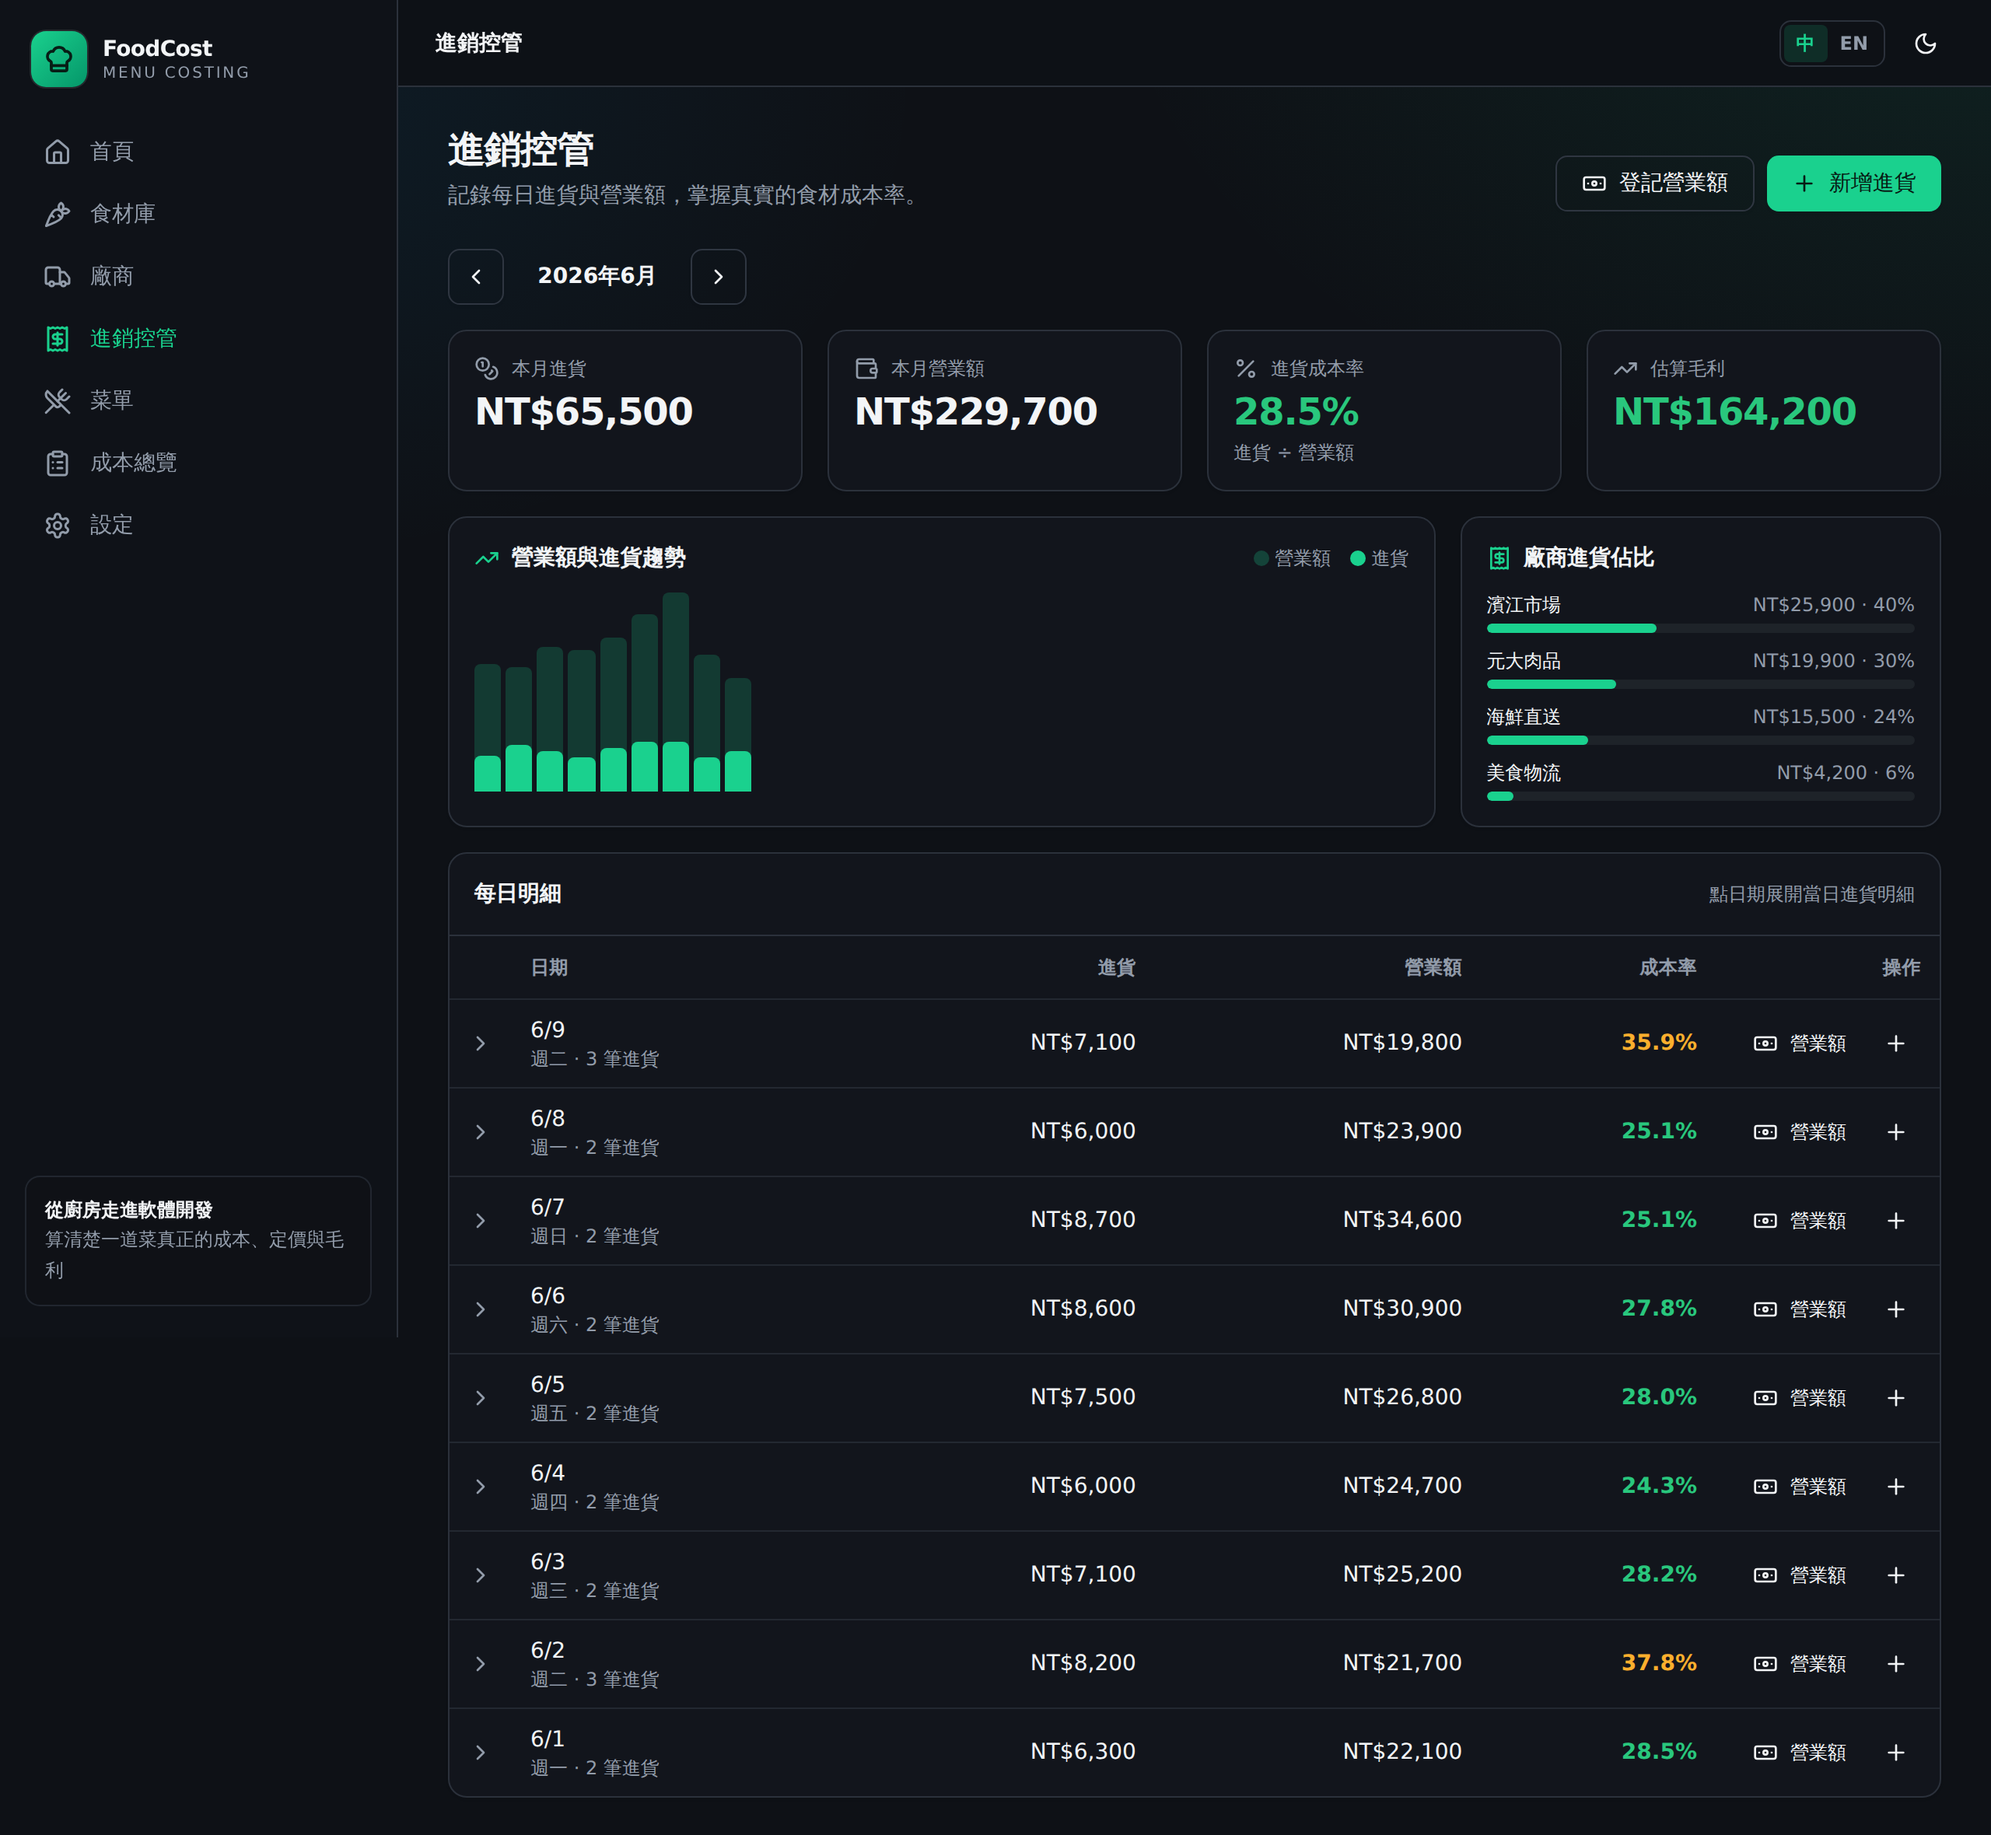
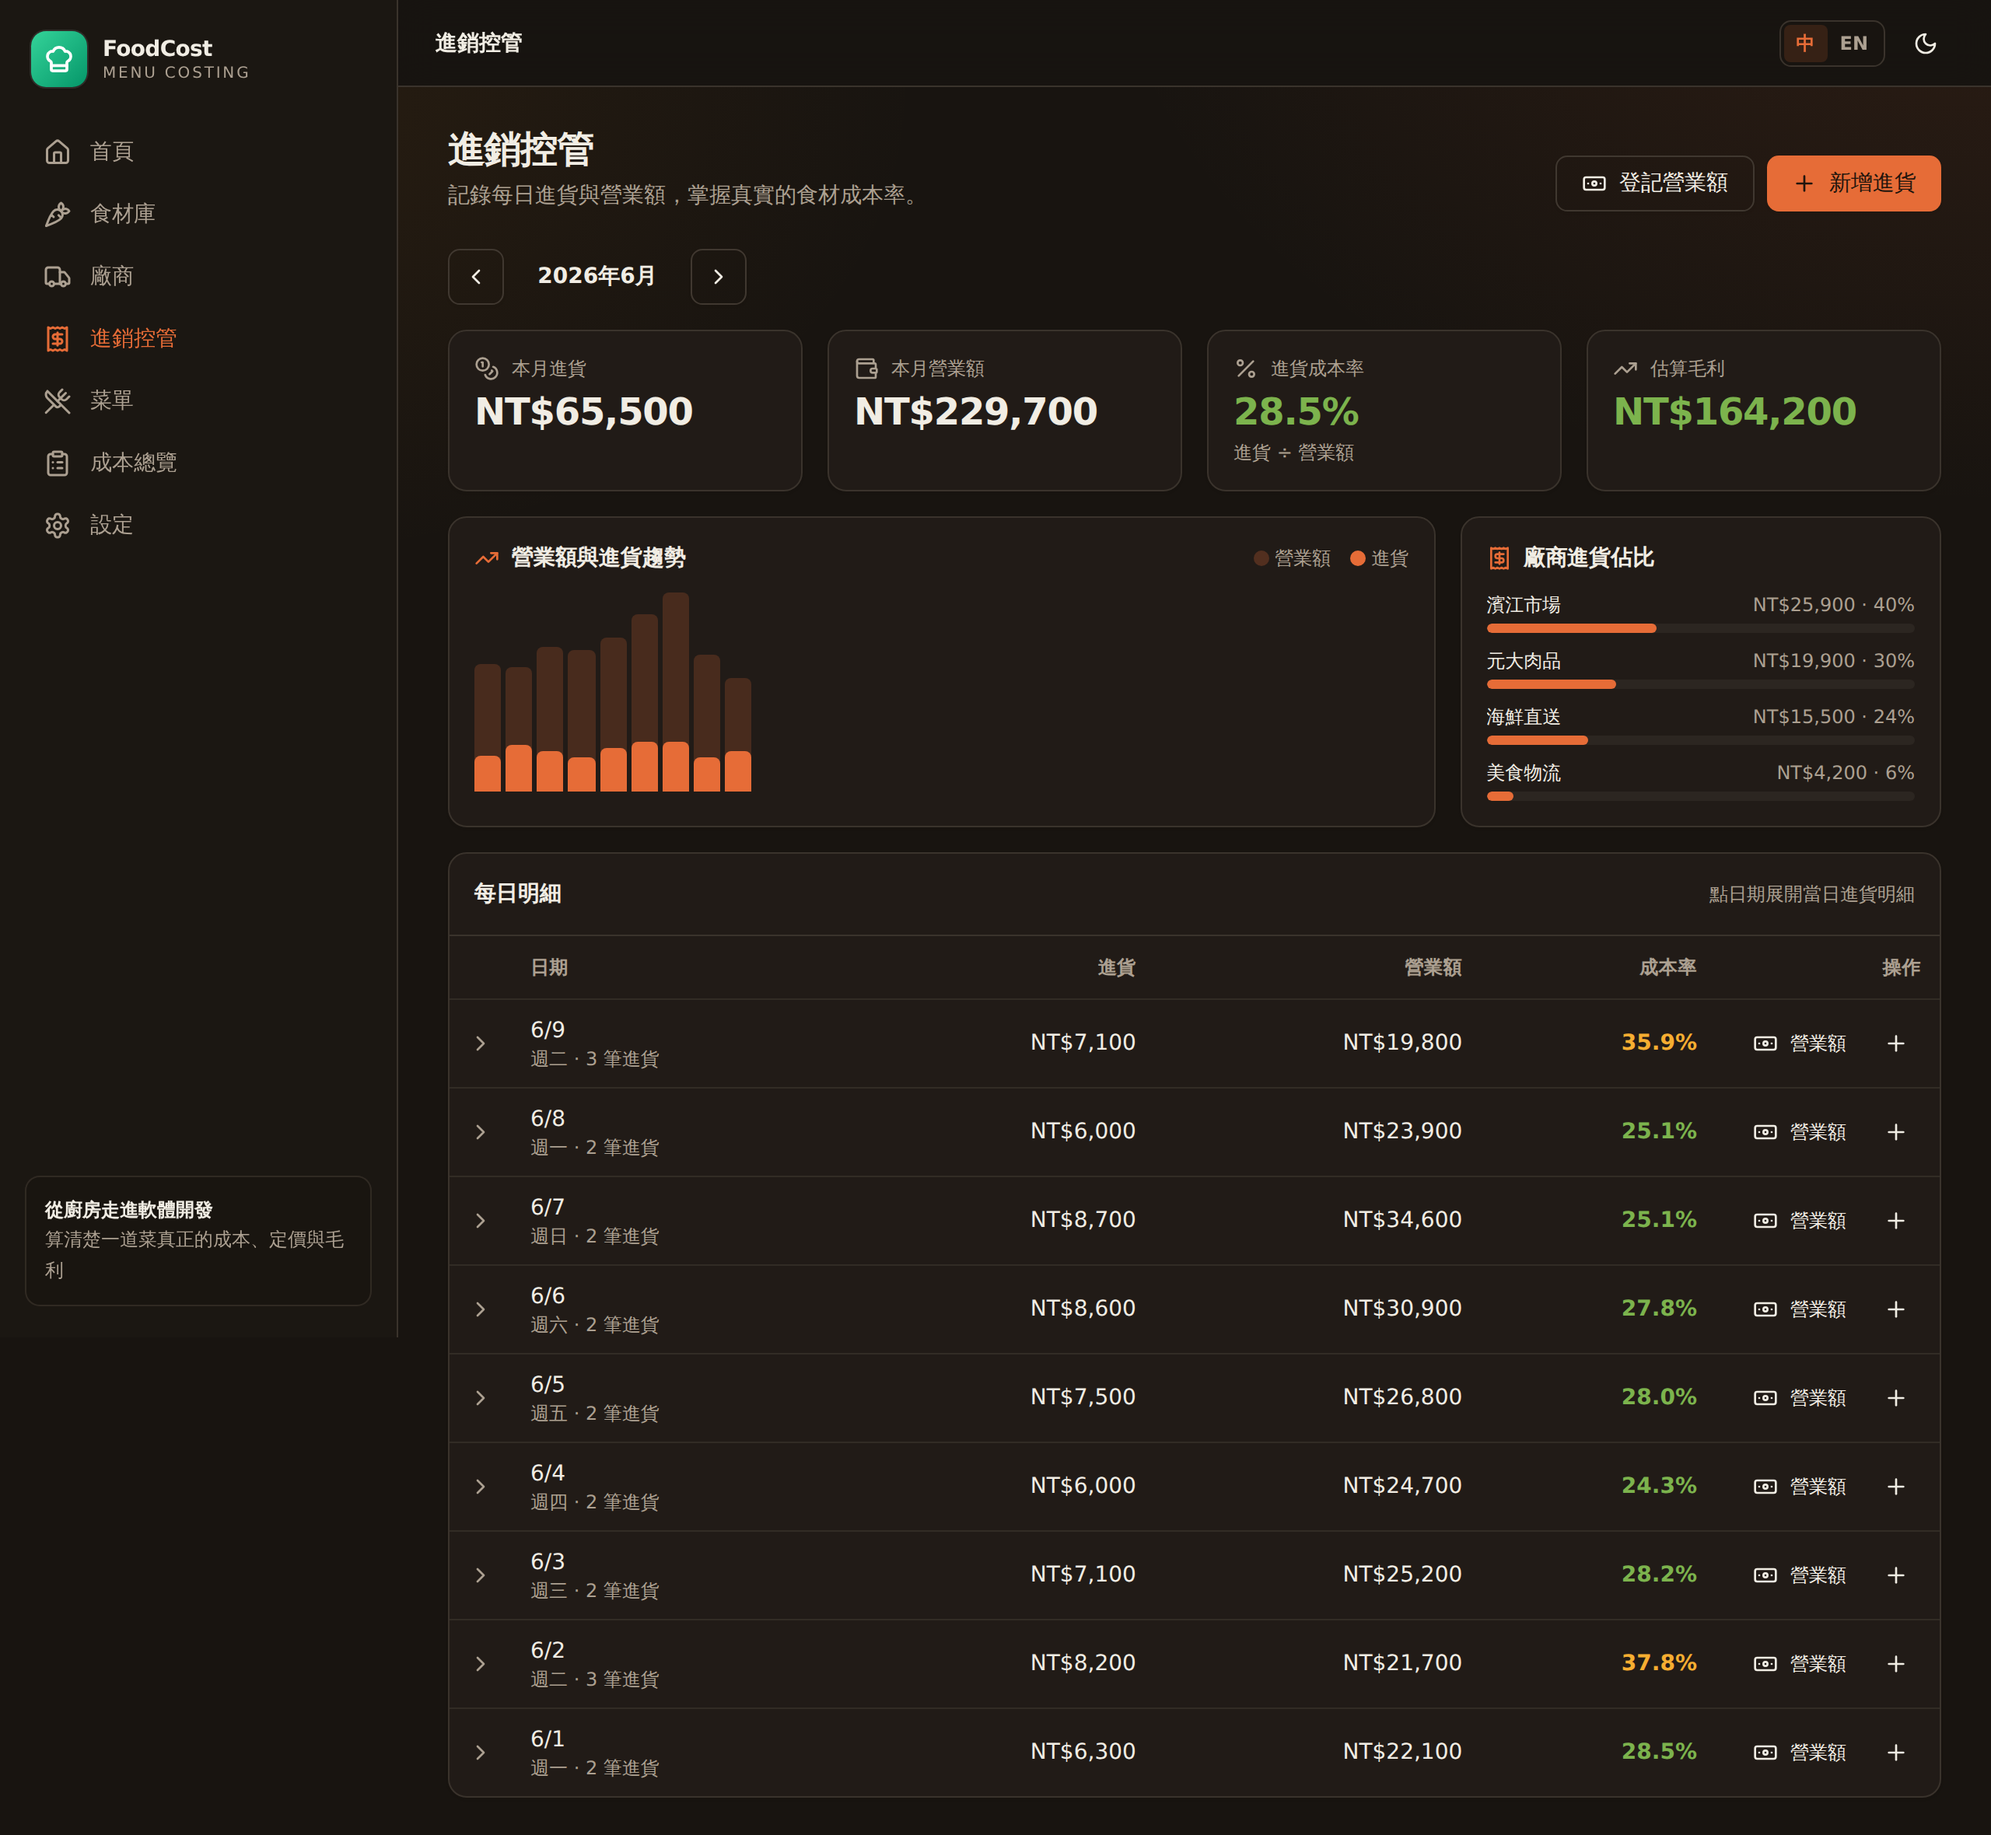
Unify dark theme with the earth-tone palette
Recolour the default dark theme to match the light theme's earth tones:
warm espresso / charcoal-wood backgrounds, terracotta primary, olive
success and ochre warning, with cream text — so both themes share one
cohesive look instead of the previous cool blue-slate dark.

- index.css: rewrite the .dark tokens; warm the ambient-glow accent
- index.html + vite.config.ts: update theme-color / PWA colors to the
  warm dark background
- Refresh dark-theme README screenshots to match

https://claude.ai/code/session_019M1k6HfryFQeN9JrbJLQJn

diff --git a/src/index.css b/src/index.css
@@ -35,32 +35,32 @@
     --radius: 0.6rem;
   }
 
-  /* Dark theme (default) */
+  /* Dark theme (default) — warm earth tones (espresso · terracotta · olive) */
   .dark {
-    --aurora-accent: 199 89% 48%;
-    --background: 220 22% 7%;
-    --foreground: 210 20% 96%;
-    --card: 220 20% 9%;
-    --card-foreground: 210 20% 96%;
-    --popover: 220 24% 8%;
-    --popover-foreground: 210 20% 96%;
-    --primary: 158 78% 46%;
-    --primary-foreground: 160 60% 7%;
-    --secondary: 215 16% 16%;
-    --secondary-foreground: 210 20% 92%;
-    --muted: 216 16% 14%;
-    --muted-foreground: 216 12% 62%;
-    --accent: 215 16% 19%;
-    --accent-foreground: 210 20% 96%;
-    --destructive: 0 72% 55%;
-    --destructive-foreground: 0 0% 98%;
-    --success: 152 66% 47%;
-    --success-foreground: 152 60% 7%;
-    --warning: 38 96% 58%;
-    --warning-foreground: 38 90% 10%;
-    --border: 216 16% 20%;
-    --input: 216 16% 22%;
-    --ring: 158 78% 46%;
+    --aurora-accent: 32 75% 50%;
+    --background: 26 20% 8%;
+    --foreground: 40 30% 92%;
+    --card: 26 18% 11%;
+    --card-foreground: 40 30% 92%;
+    --popover: 26 22% 9%;
+    --popover-foreground: 40 30% 92%;
+    --primary: 18 78% 56%;
+    --primary-foreground: 24 45% 9%;
+    --secondary: 26 14% 17%;
+    --secondary-foreground: 40 25% 88%;
+    --muted: 26 14% 15%;
+    --muted-foreground: 34 14% 62%;
+    --accent: 26 15% 20%;
+    --accent-foreground: 40 28% 92%;
+    --destructive: 6 72% 57%;
+    --destructive-foreground: 40 30% 96%;
+    --success: 92 40% 50%;
+    --success-foreground: 92 45% 8%;
+    --warning: 38 92% 58%;
+    --warning-foreground: 38 85% 10%;
+    --border: 28 14% 20%;
+    --input: 28 14% 22%;
+    --ring: 18 78% 56%;
   }
 }
 

diff --git a/index.html b/index.html
@@ -5,7 +5,7 @@
     <link rel="icon" type="image/svg+xml" href="./favicon.svg" />
     <link rel="apple-touch-icon" href="./apple-touch-icon.png" />
     <meta name="viewport" content="width=device-width, initial-scale=1.0" />
-    <meta name="theme-color" content="#0b0f14" />
+    <meta name="theme-color" content="#18130f" />
     <meta
       name="description"
       content="餐廳菜單成本計算器 — 算清楚一道菜真正的成本、定價與毛利。純前端、本地儲存、零後端。Restaurant Menu Cost Calculator."

diff --git a/vite.config.ts b/vite.config.ts
@@ -22,8 +22,8 @@ export default defineConfig({
         short_name: "成本計算器",
         description:
           "算清楚一道菜真正的成本、定價與毛利。Restaurant Menu Cost Calculator.",
-        theme_color: "#0b0f14",
-        background_color: "#0b0f14",
+        theme_color: "#18130f",
+        background_color: "#18130f",
         display: "standalone",
         orientation: "any",
         start_url: "./",
